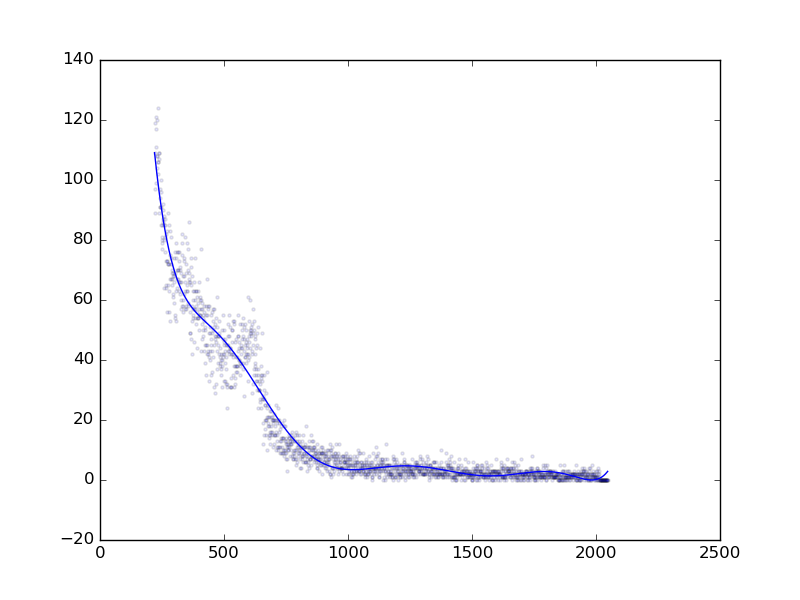
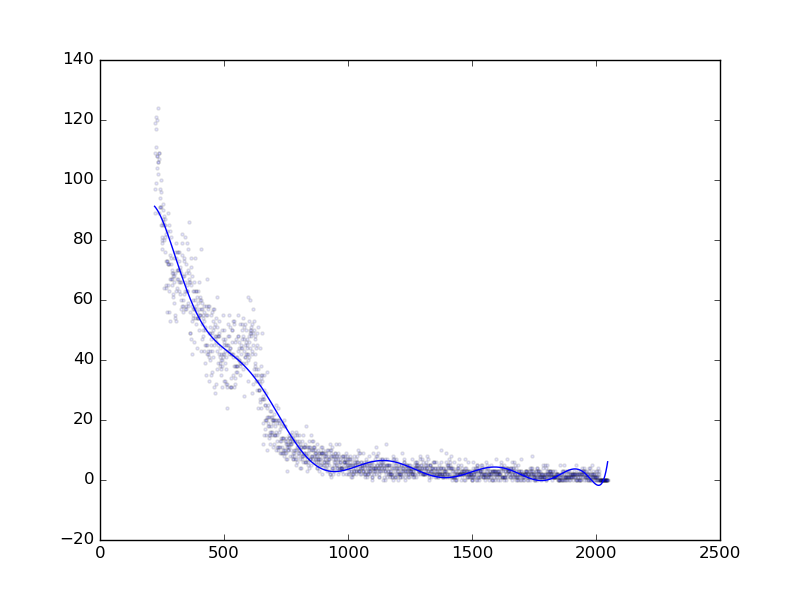
Added the mass_electron file and modified the noise_calculator to have flexible degree of polynomial

diff --git a/scripts/noise_profile.py b/scripts/noise_profile.py
@@ -1,15 +1,16 @@
 import file_tools as ft
 import gaussian_fitter as gf
 from os import path
+import sys
 import numpy as np 
 import matplotlib.pyplot as plt 
 from scipy.optimize import curve_fit 
 
-def polynome(x,a0,a1,a2,a3,a4,a5,a6,a7,a8):
-    y = a0+a1*x+ a2*x**2+a3*x**3+a4*x**4+a5*x**5+a6*x**6+a7*x**7+a8*x**8
+def polynome(*argv):
+    y = sum([argv[0]**i * argv[i+1] for i in range(len(argv)-1)])
     return y
 
-def fitter(sup_path):
+def fitter(sup_path, plot = True):
     '''
     Performs a calibration on a data set of size (4x2x2048)
     and returns the parameters a,b of the line fit and their uncertainties
@@ -18,15 +19,17 @@ def fitter(sup_path):
     x = np.linspace(220,2047,2048-220)
     uncert = np.sqrt(data)
     print(data)
-    res = curve_fit(polynome, x, data, p0 = [1,1,1,1,1,1,1,1,1]) 
+    res = curve_fit(polynome, x, data, p0 = [1,1,1,1,1,1,1,1,1,1,1,1,1,1]) 
     popt = res[0]
     uncertainty = np.sqrt(np.diag(res[1]))
     print(popt, uncertainty)
-    plt.figure()
-    plt.scatter(x,data, marker = '.', alpha = 0.1)
-    plt.plot(x, polynome(x, *popt))
-    plt.savefig(path.join(sup_path + 'background_noise.png'))
+    if plot:
+        plt.figure()
+        plt.scatter(x,data, marker = '.', alpha = 0.1)
+        plt.plot(x, polynome(x, *popt))
+        plt.savefig(path.join(sup_path + 'background_noise.png'))
     np.savez(path.join(sup_path + 'background_noise.npz'), coefs = popt)
+    return popt
 
-
-fitter('../data/tungsten/Angles/55/')
+if __name__ == '__main__':
+    fitter(path.join('../data/', sys.argv[1]))

diff --git a/scripts/gaussian_fitter.py b/scripts/gaussian_fitter.py
@@ -4,6 +4,7 @@ import matplotlib.pyplot as plt
 from scipy.optimize import curve_fit
 from scipy.special import erfc
 from matplotlib import rc
+import os
 
 
 def collapse_data(data_list):
@@ -69,7 +70,7 @@ def plotter(num, key, guess_mean, guess_width = 2, guess_height=1, plot = True):
         plt.savefig('../figures/{}_gaussian.png'.format(key))
         # plt.show()
         plt.close()
-    print(popt, uncertainty)
+    # print(popt, uncertainty)
     return [popt[0], uncertainty[1]]
 
 def reverse_line(x,a,b):
@@ -116,6 +117,7 @@ def line_fit(points_y, litterature, plot = True):
         plt.xlabel('Energy (keV)')
         plt.tight_layout()
         plt.savefig('../figures/line.png')
+    print(popt, uncertainty)
     return popt, uncertainty
 
 def calibrator_fit(data):
@@ -134,7 +136,7 @@ def calibrator_fit(data):
 if __name__ == "__main__":
     elements = {}
     for element in ft.SOURCE_NAMES:
-        elements[element] = ft.get_data("../data/calibration", source_name = element)
+        elements[element] = ft.get_data(os.path.join("../data/tungsten/Angles/55/00_Other_Sources", element))
     line_points = []
     line_points.append(plotter([1200,1450], 'Na-22', guess_mean = 1360))
     line_points.append(plotter([900,1050], 'Ba-133', guess_mean = 970))

diff --git a/scripts/mass_calculator.py b/scripts/mass_calculator.py
@@ -1,0 +1,34 @@
+import file_tools as ft
+import noise_profile as nsp
+import gaussian_fitter as gf
+from os import path
+import sys
+import numpy as np 
+import matplotlib.pyplot as plt 
+from scipy.optimize import curve_fit 
+
+def mass_calculator(sup_path, plot = True):
+    '''
+    Loads rod data from specified path, substracts the noise profile and plot.
+    The formula used to calculate the mass is the following:
+    m = (1/c^2) * 1/( 1/(energy[channel]*10^3*1.602*10^{-19}) - 1/E_i*10^3*1.602*10^{-19} ) * (1-cos(theta)),
+    where c = 3*10^8 m/s, E_i = 661.6 keV.
+    '''
+    data = gf.collapse_data(ft.get_data(path.join(sup_path, "02_Tungsten")))
+    x = np.linspace(0,2047,2048)
+    uncert_data = np.sqrt(data)
+    noise_coefs = nsp.fitter(path.join('../data/', sys.argv[1]))
+    noise = nsp.polynome(x, *noise_coefs)
+    # NOISE UNCERTAINTY
+    data_corrected = data[220:] - noise[220:]
+    
+    if plot: 
+        plt.figure()
+        plt.scatter(x[220:],data_corrected, marker = '.', alpha = 1)
+        plt.show()
+    
+    
+
+
+if __name__ == '__main__':
+    mass_calculator(path.join('../data', sys.argv[1]))
